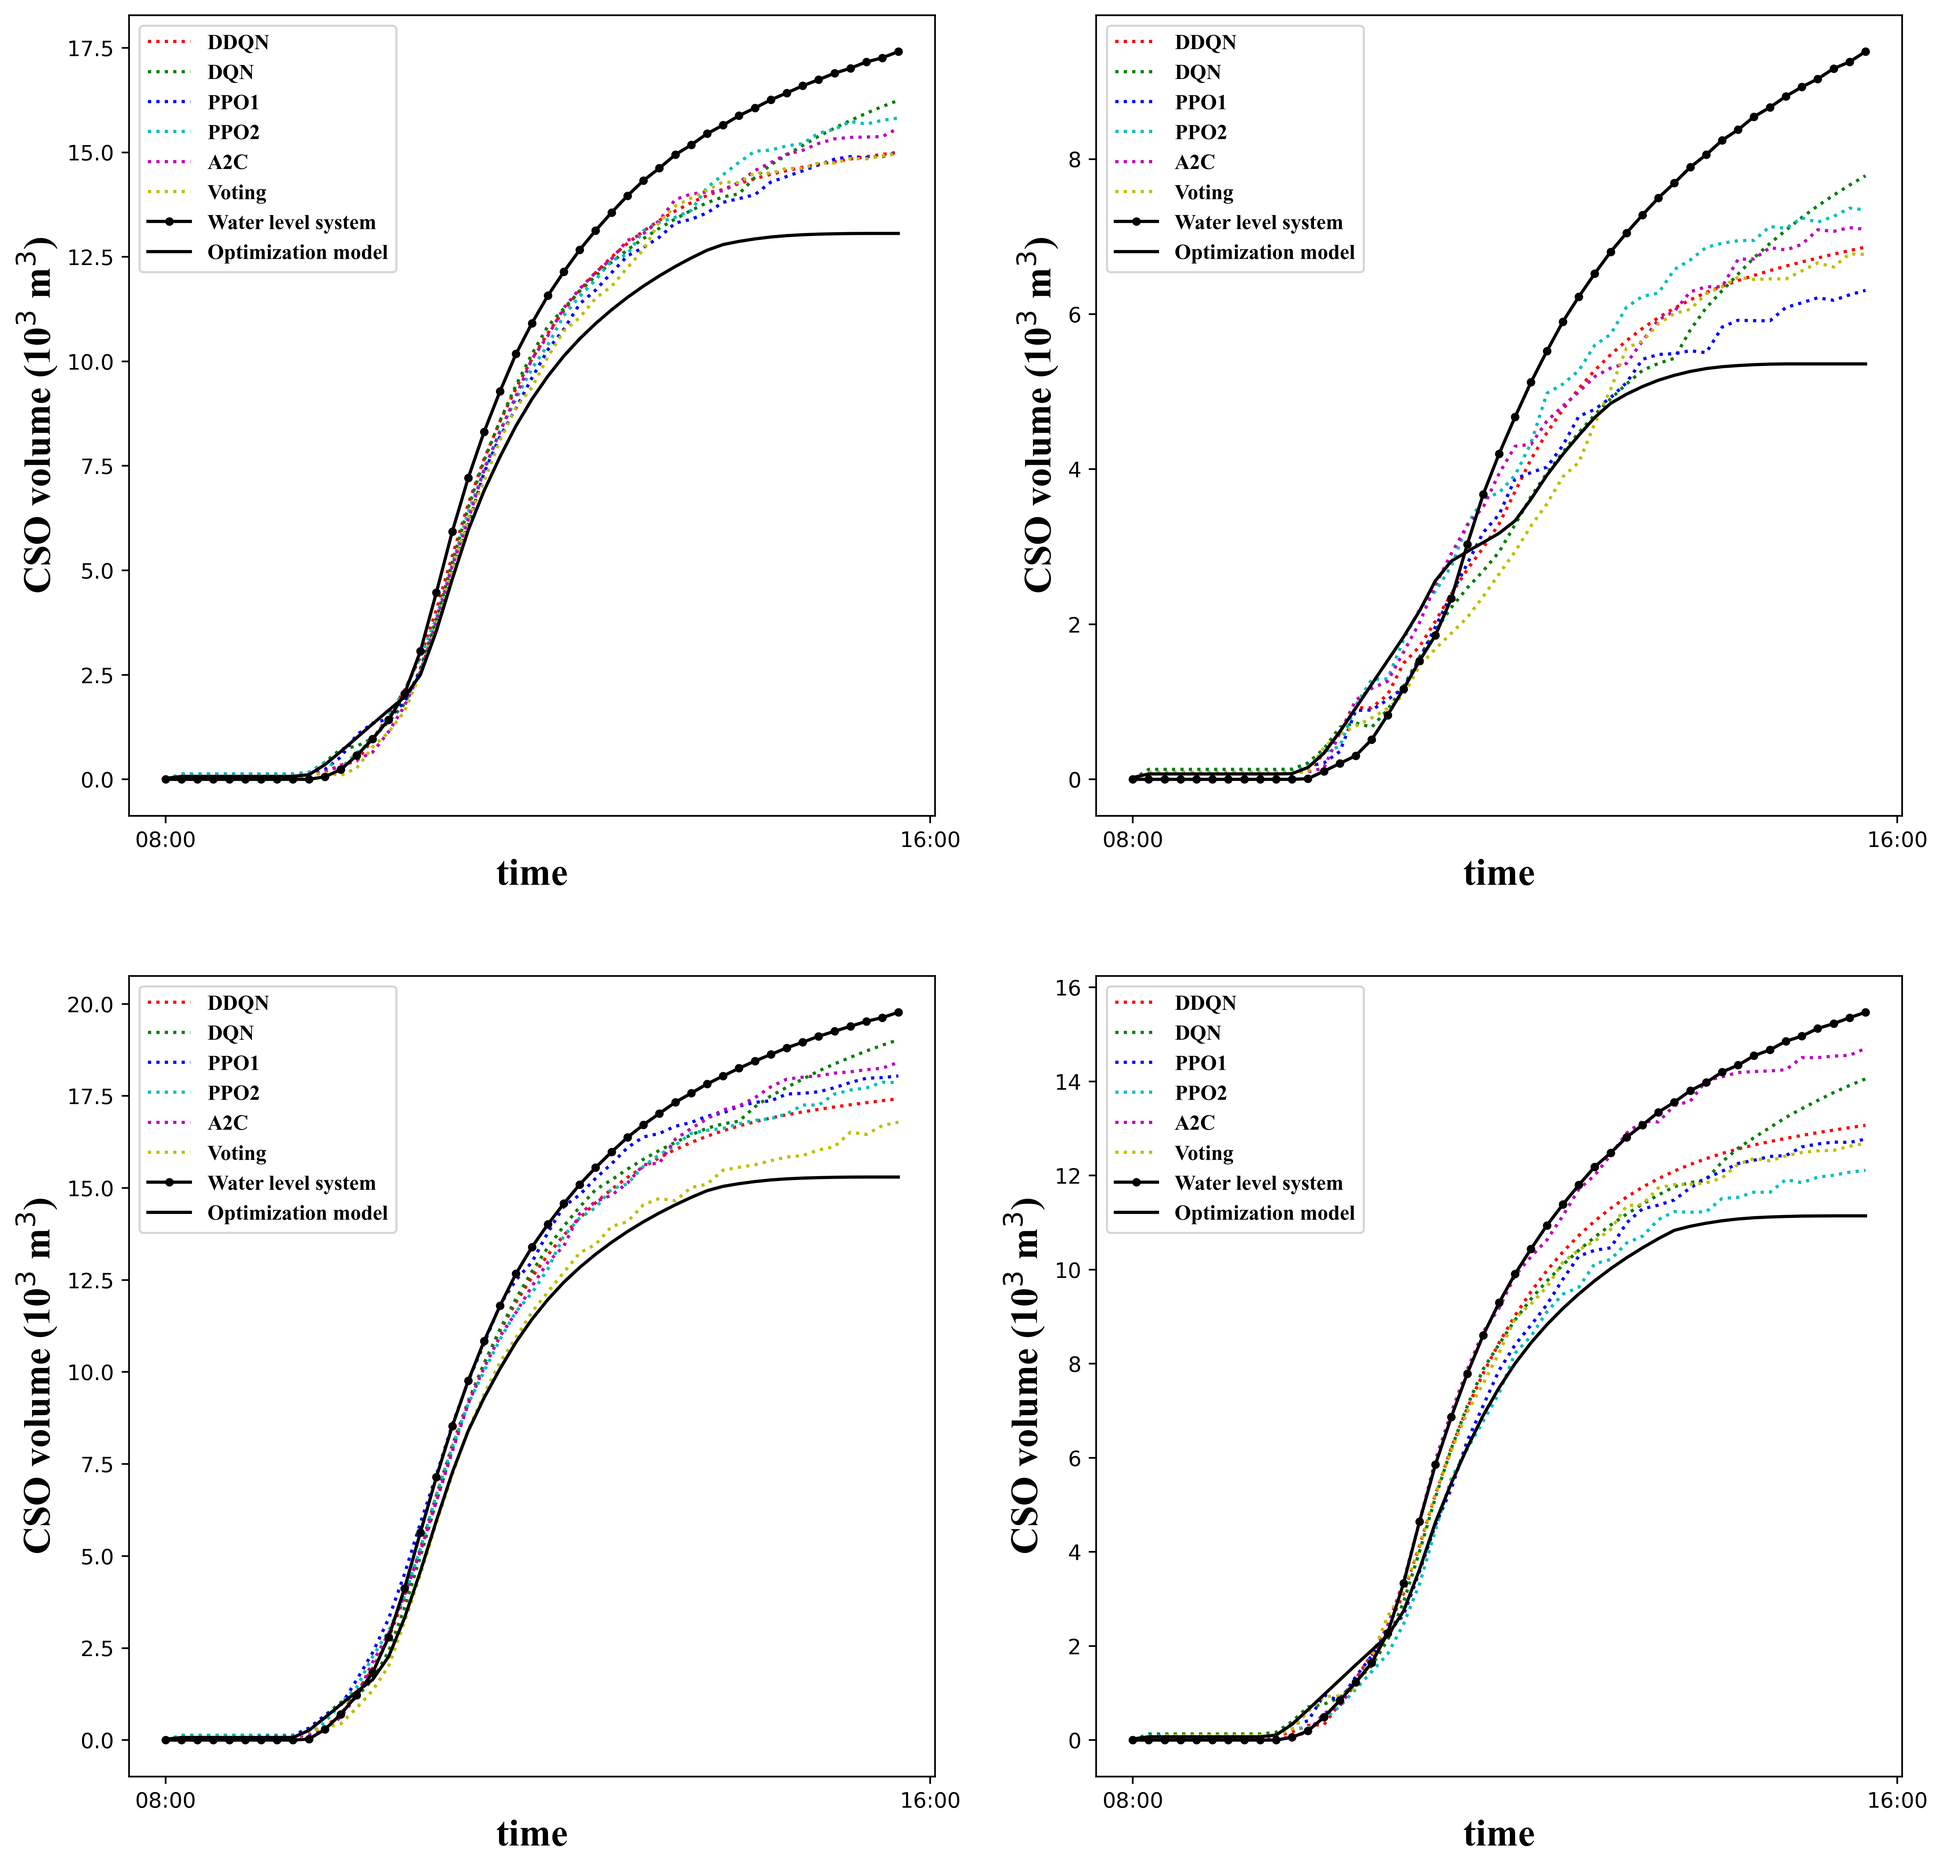
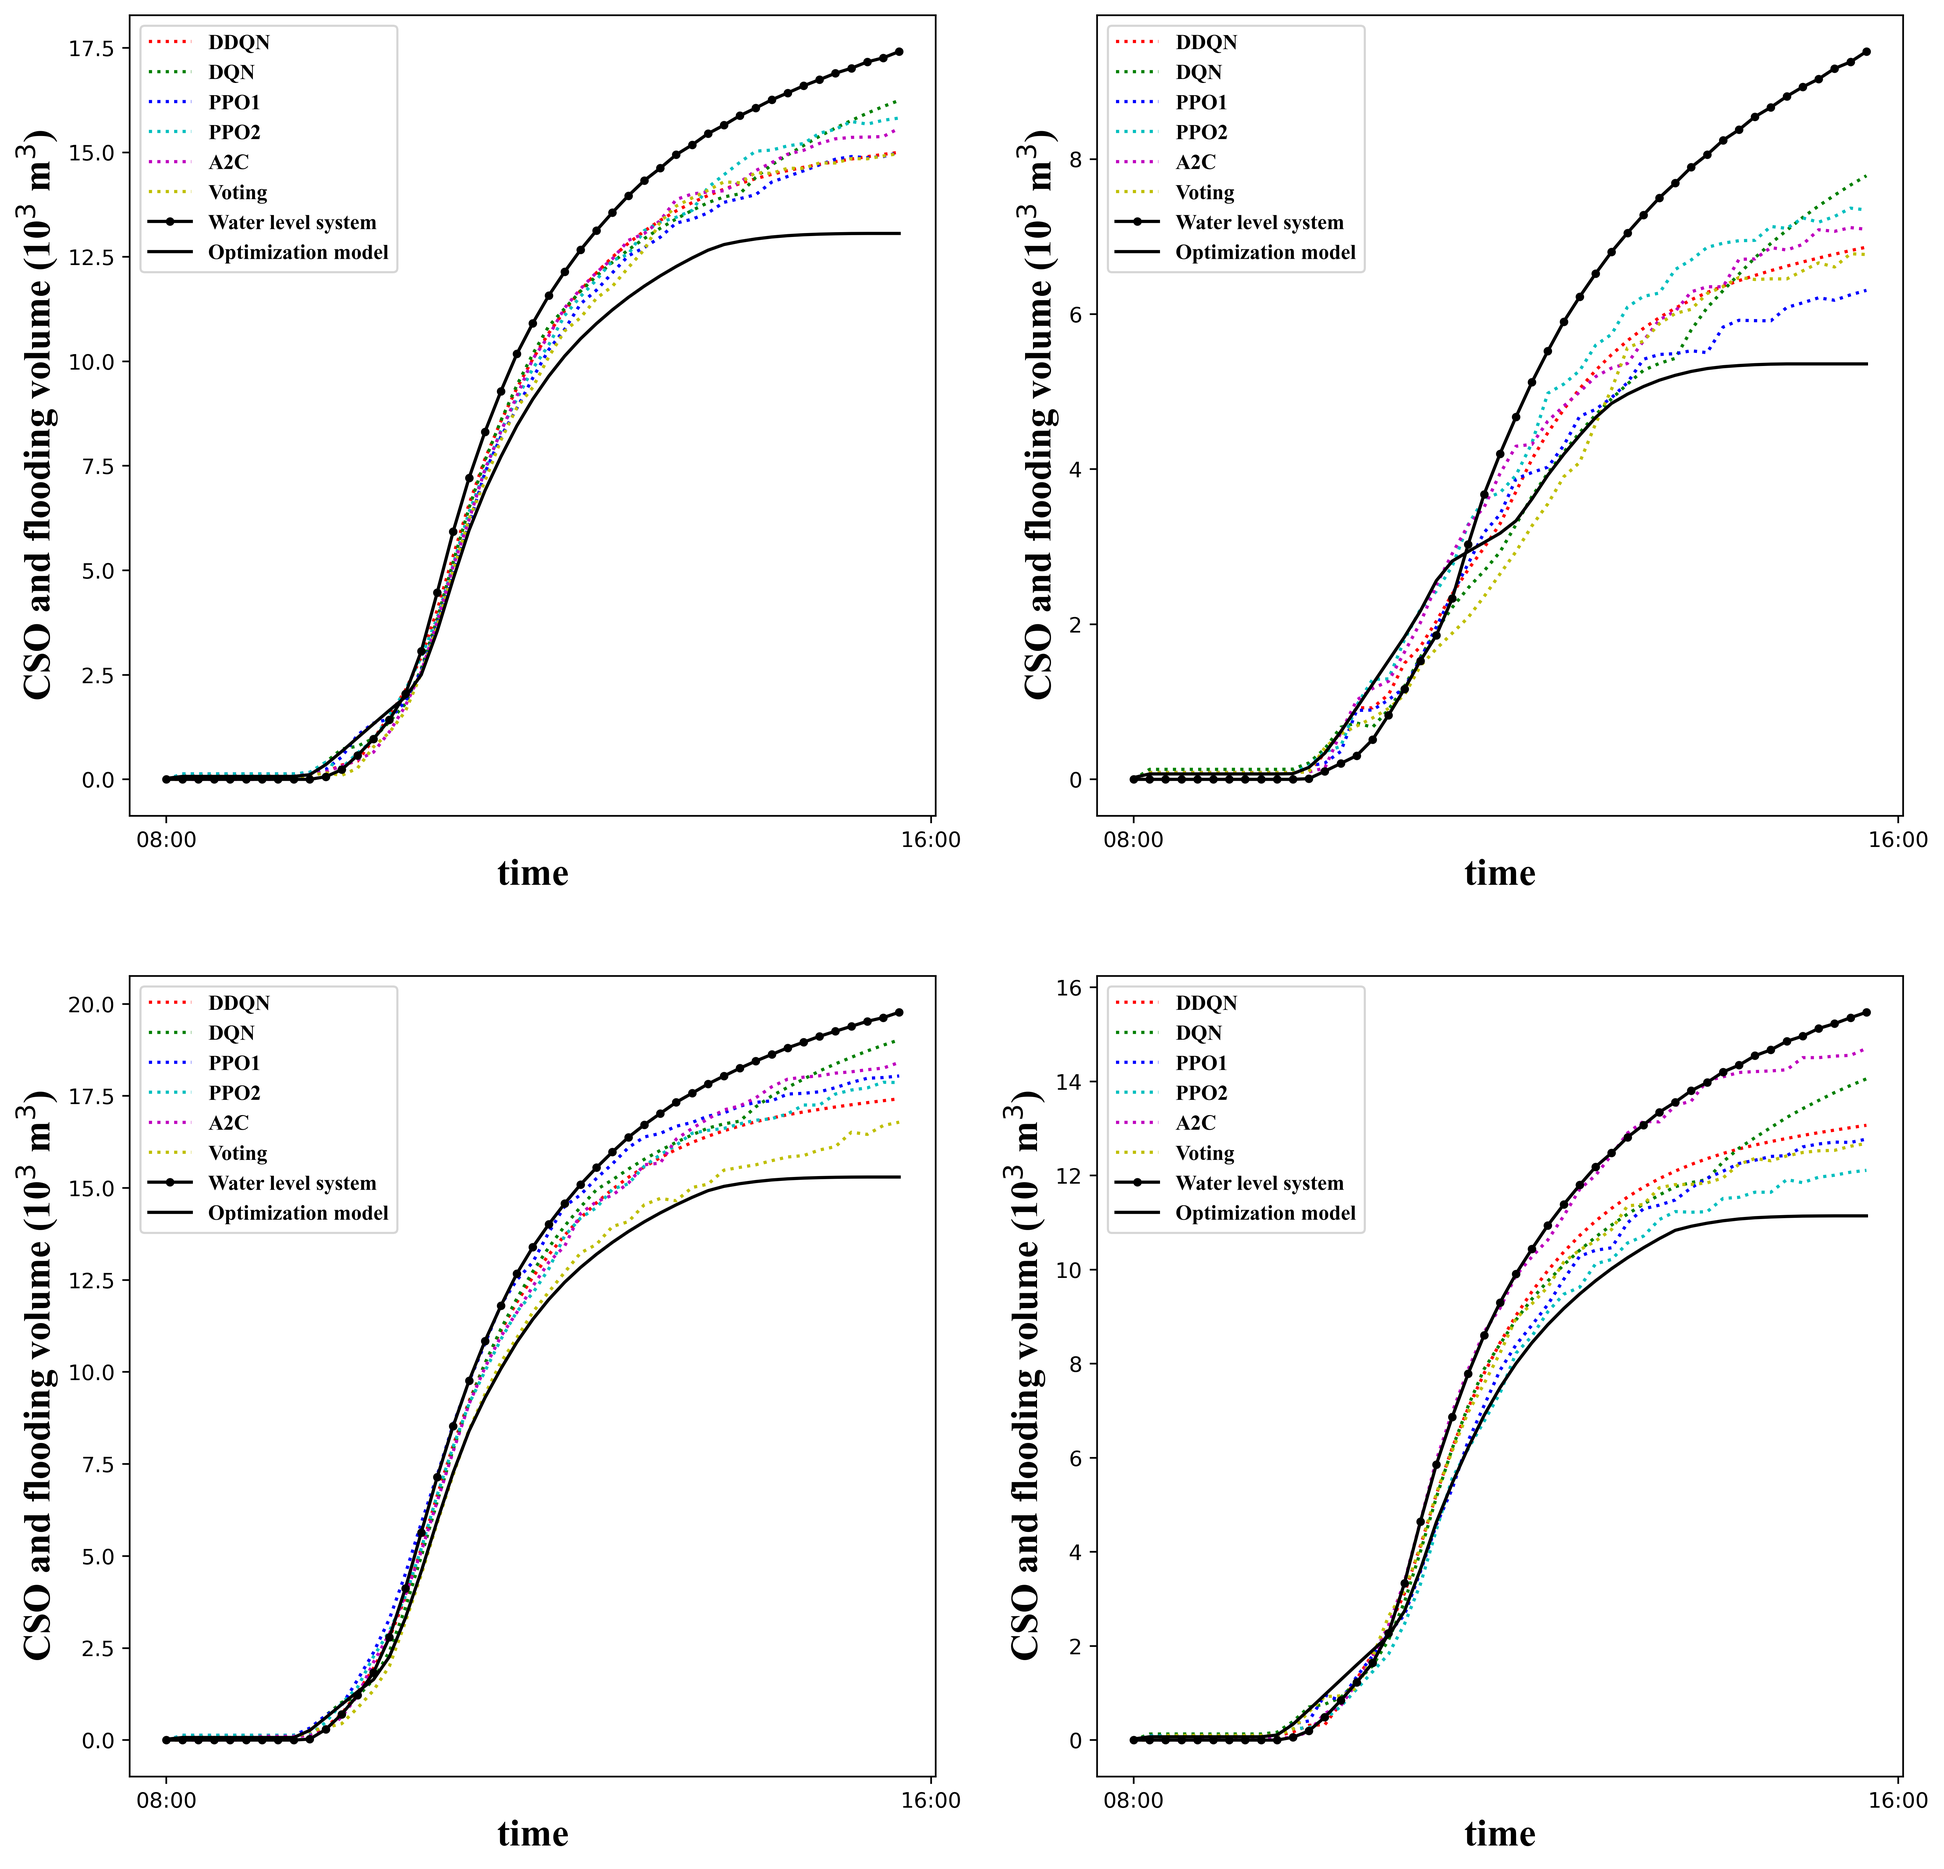
Fig label

diff --git a/Multi-RL & Voting/4.1/RESULTS/results_fig.py b/Multi-RL & Voting/4.1/RESULTS/results_fig.py
@@ -2,7 +2,7 @@
 import pandas as pd
 import matplotlib.pyplot as plt
 
-testid='test'
+testid='real'
 
 dfa2c=pd.read_csv('./Final result/a2c_test_result/'+testid+' a2cflooding_vs_t.csv').values
 dfddqn=pd.read_csv('./Final result/ddqn_test_result/'+testid+' ddqnflooding_vs_t.csv').values
@@ -35,7 +35,7 @@ for im in range(1,5):
     
     plt.xticks([0,48],['08:00','16:00'])
     plt.xlabel('time',font2)
-    plt.ylabel('CSO volume (10$^{3}$ m$^{3}$)',font2)
+    plt.ylabel('CSO and flooding volume (10$^{3}$ m$^{3}$)',font2)
 
     plt.legend(prop=font1)
 

diff --git a/Multi-RL & Voting/4.3-2/results_fig.py b/Multi-RL & Voting/4.3-2/results_fig.py
@@ -128,6 +128,6 @@ while im < 25:
     line=line+1
   
 
-plt.text(-210, 90, 'CSO volume (10$^{3}$ m$^{3}$)',rotation=90,fontdict=font3)
+plt.text(-210, 90, 'CSO and flooding volume (10$^{3}$ m$^{3}$)',rotation=90,fontdict=font3)
 
 fig.savefig('5.5.2.png', bbox_inches='tight', dpi=500)
